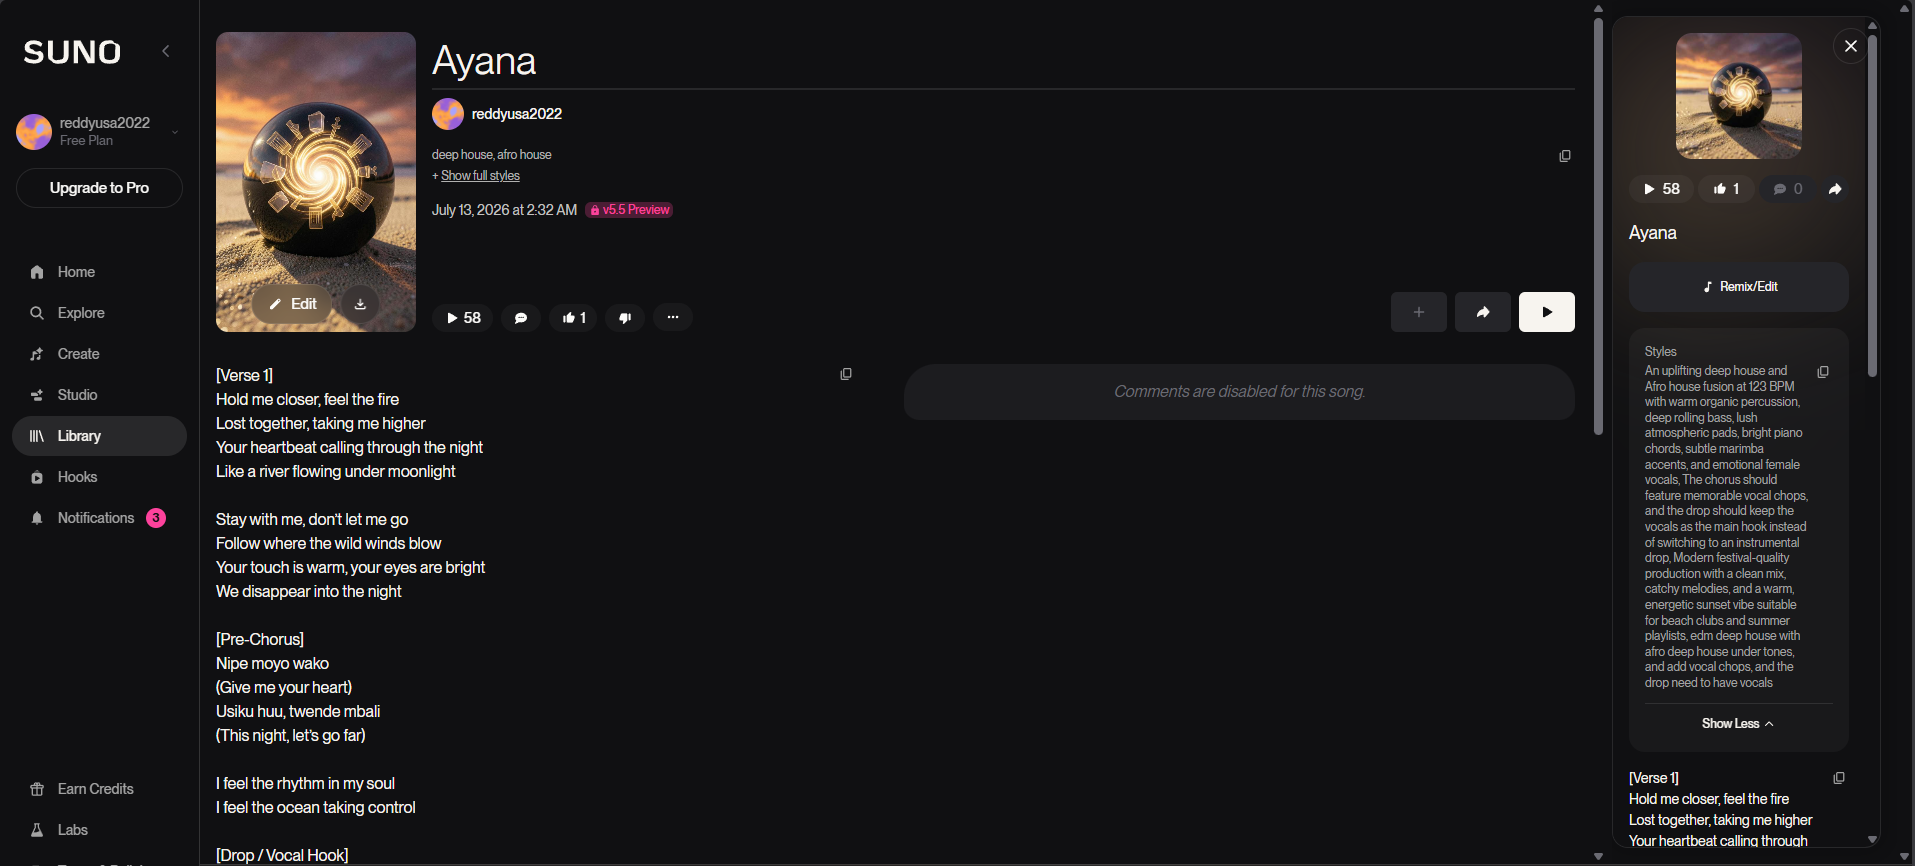
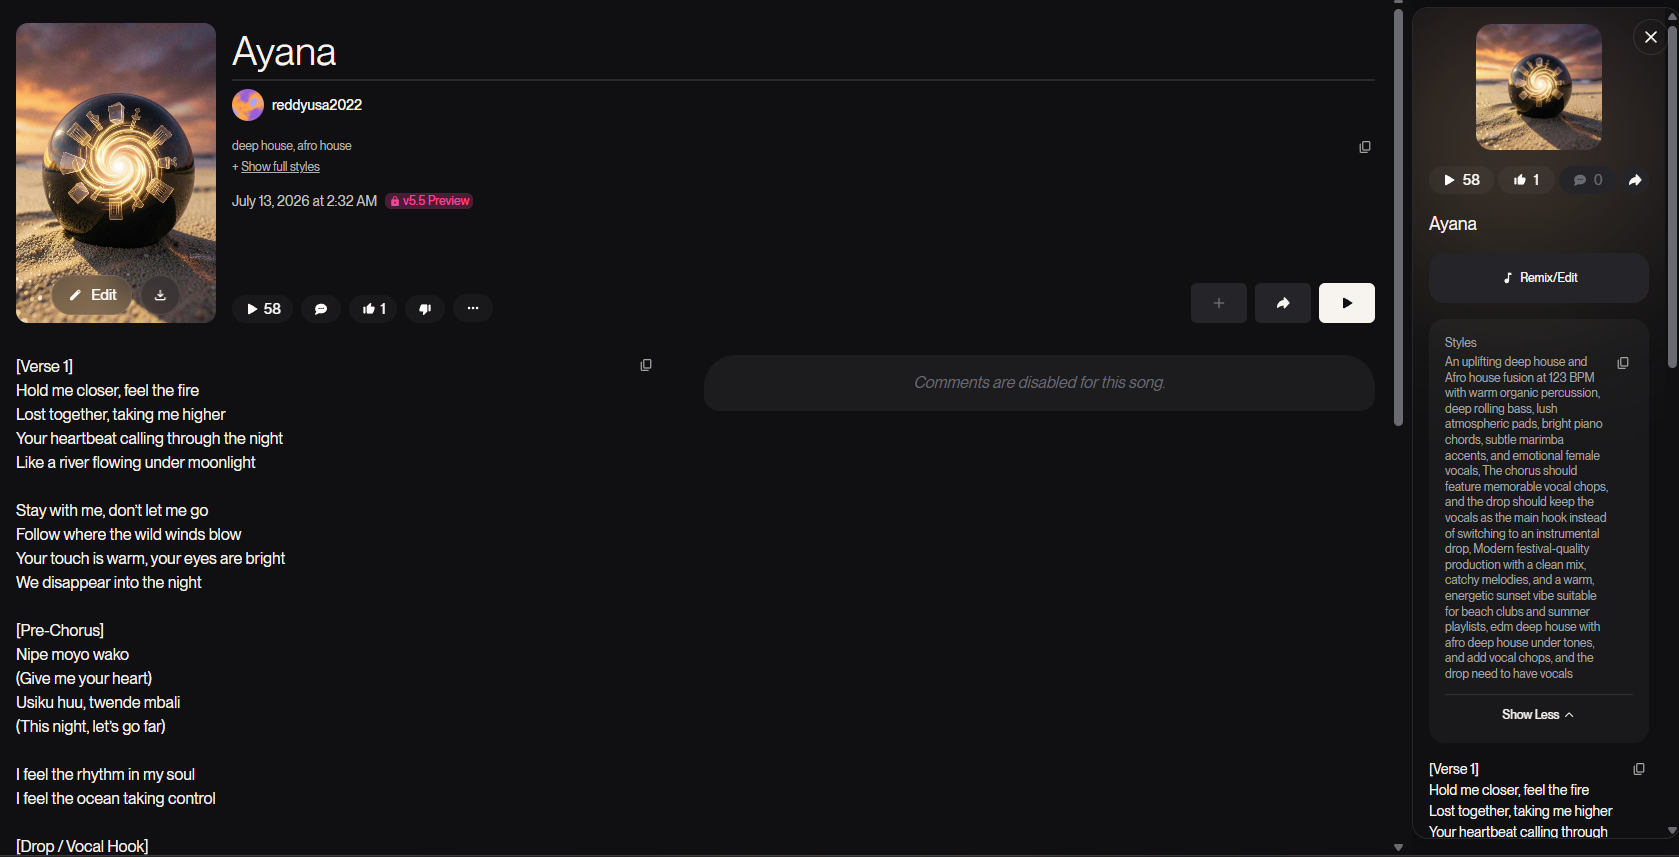
Update blog screenshots with cropped versions

diff --git a/blog/ai-music-hiding-in-plain-sight.html b/blog/ai-music-hiding-in-plain-sight.html
@@ -9,7 +9,7 @@
   <meta property="og:type" content="article">
   <meta property="og:title" content="I Thought I Found a New Artist. Then I Tried Suno.">
   <meta property="og:description" content="Is AI-generated music hiding in plain sight on YouTube and Spotify? An experiment in sound, disclosure, and listener trust.">
-  <meta property="og:image" content="https://reddybalajimadha.com/assets/ai-music-youtube.jpg">
+  <meta property="og:image" content="https://reddybalajimadha.com/assets/ai-music-youtube-cropped.png">
   <link rel="icon" type="image/svg+xml" href="../favicon.svg">
   <link rel="stylesheet" href="../style.css?v=20260717">
   <link rel="stylesheet" href="blog.css?v=20260717">
@@ -26,7 +26,7 @@
         <aside class="disclosure"><strong>AI transparency:</strong> I researched and reviewed this article and used ChatGPT to help organize, draft, and edit it. The experimental track was generated with Suno. My exact inputs are published below.</aside>
       </header>
 
-      <figure class="wide"><img src="../assets/ai-music-youtube.jpg" alt="YouTube Music artist page for Malia showing popular songs"><figcaption>A YouTube Music artist page that helped prompt my investigation. Play counts and release patterns are observations—not proof of how the recordings were made.</figcaption></figure>
+      <figure class="wide"><img src="../assets/ai-music-youtube-cropped.png" alt="Cropped YouTube Music artist page for Malia showing popular songs"><figcaption>A YouTube Music artist page that helped prompt my investigation. Play counts and release patterns are observations—not proof of how the recordings were made.</figcaption></figure>
 
       <section class="prose">
         <p class="lead">I was not looking for AI-generated music. I was simply listening to deep-house and Afro-house playlists when one song caught my attention. It sounded polished and catchy, but something felt unusual.</p>

diff --git a/index.html b/index.html
@@ -574,7 +574,7 @@
             <h2 class="section-title reveal">Notes from the rabbit hole.</h2>
             <p class="section-sub reveal">Experiments, investigations, and what I learn while testing new technology.</p>
             <a class="blog-card reveal" href="blog/ai-music-hiding-in-plain-sight.html">
-                <div class="blog-card-image"><img src="assets/ai-music-youtube.jpg" alt="YouTube Music page for Malia showing songs with hundreds of thousands of plays"></div>
+                <div class="blog-card-image"><img src="assets/ai-music-youtube-cropped.png" alt="Cropped YouTube Music page for Malia showing songs with hundreds of thousands of plays"></div>
                 <div class="blog-card-copy">
                     <div class="blog-meta">July 2026 · AI, music &amp; transparency</div>
                     <h3>I Thought I Found a New Artist. Then I Tried Suno.</h3>